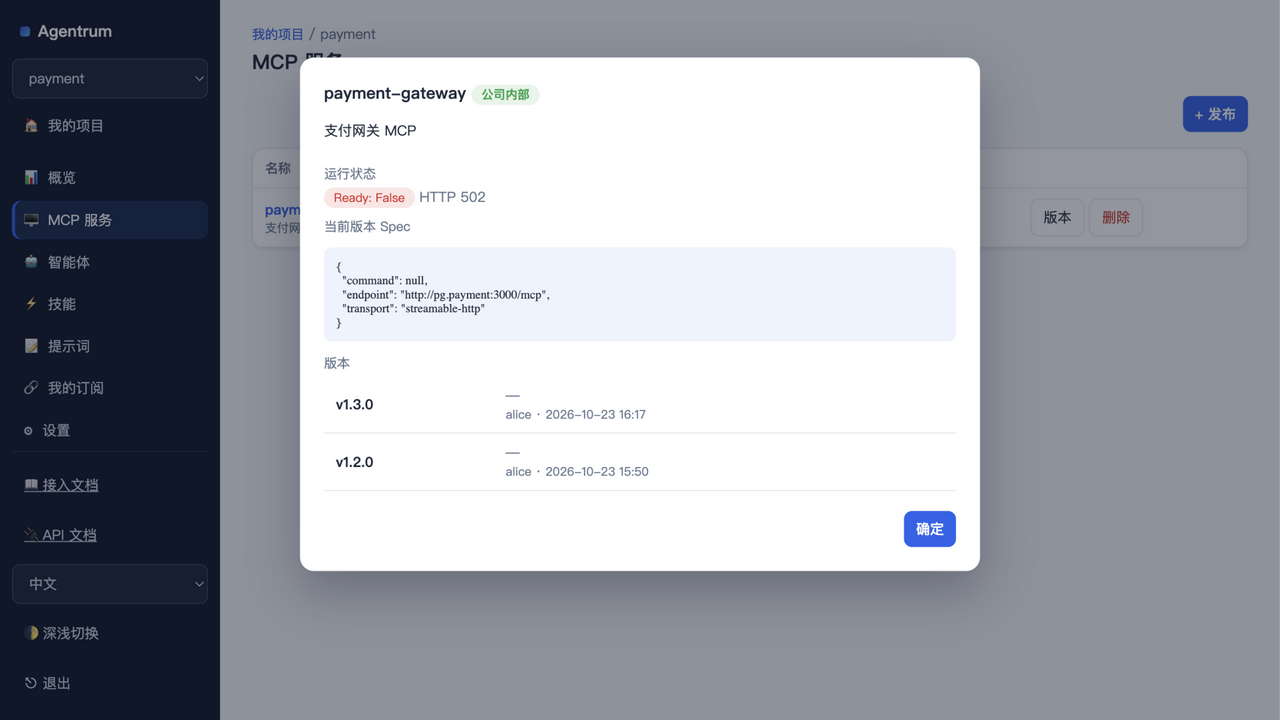
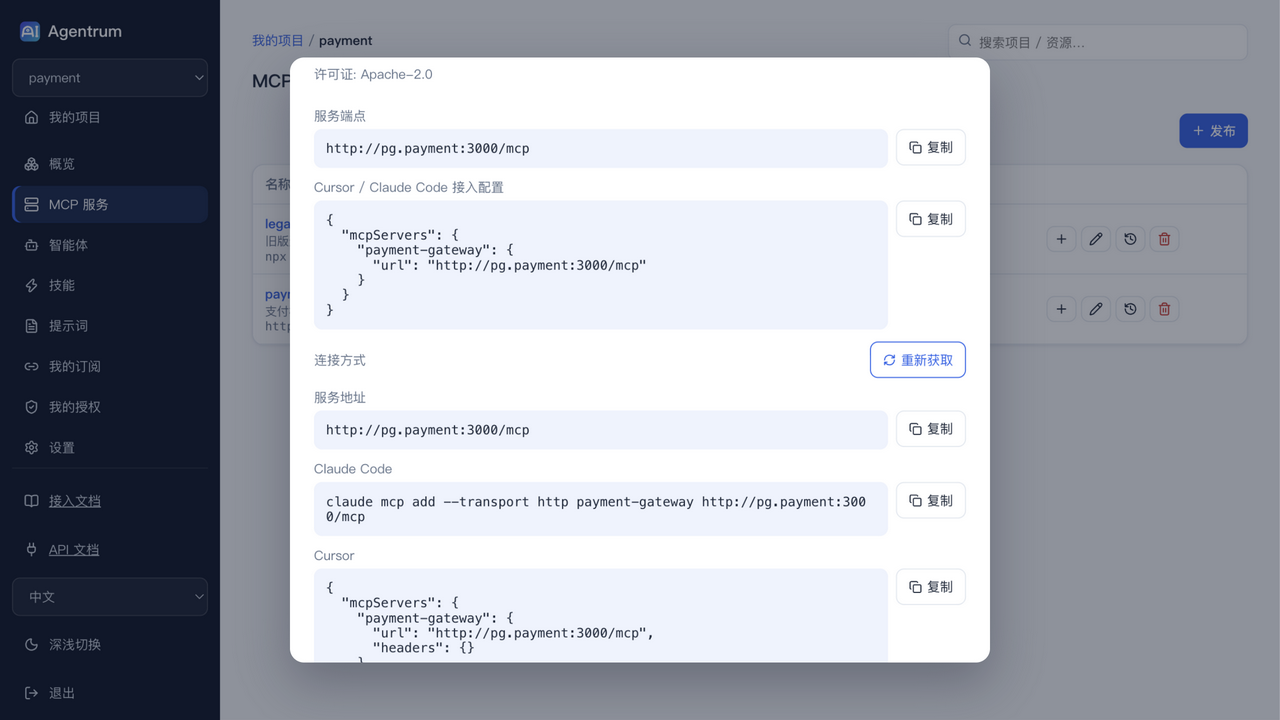
docs: refresh console screenshots with the new mark and features
Regenerate all seven screenshots against the current console: AI-monogram
brand mark, deprecation badges in the catalog, copy-ready IDE connection
snippets on resource detail, MCP publish form with args/auth headers.
Captions updated in both READMEs; handbook shot rebuilt with the new logo.

diff --git a/README.en.md b/README.en.md
@@ -26,9 +26,9 @@ AI assets end up scattered across chat threads, laptops and repos: nobody knows 
 | | |
 |---|---|
 | ![Overview](docs/img/01-overview.png) | ![Catalog](docs/img/02-catalog.png) |
-| *Project overview: resources, releases, subscribers, approvals at a glance* | *Catalog: organized by kind, visibility badges for internal / restricted / private* |
+| *Project overview: resources, releases, subscribers, approvals at a glance* | *Catalog: organized by kind, with visibility and deprecation badges* |
 | ![Detail](docs/img/03-detail.png) | ![Publish](docs/img/04-publish.png) |
-| *Resource detail: health, spec, version timeline* | *Publish: kind-specific forms, immutable tags* |
+| *Resource detail: health, version timeline, copy-ready IDE connection snippets* | *Publish: kind-specific forms (MCP args/auth headers), immutable tags* |
 | ![Subscribe](docs/img/05-subscribe.png) | ![Dark](docs/img/06-dark.png) |
 | *Cross-team subscribe: searchable picker — type `pay` to filter* | *Dark mode (light default, one-click toggle)* |
 

diff --git a/README.md b/README.md
@@ -26,9 +26,9 @@
 | | |
 |---|---|
 | ![概览](docs/img/01-overview.png) | ![目录](docs/img/02-catalog.png) |
-| *项目概览:资源、发布、订阅方、待审批一目了然* | *资源目录:按类型组织,可见性徽章区分公司内部 / 受限 / 项目私有* |
+| *项目概览:资源、发布、订阅方、待审批一目了然* | *资源目录:按类型组织,可见性与弃用徽章一目了然* |
 | ![详情](docs/img/03-detail.png) | ![发布](docs/img/04-publish.png) |
-| *资源详情:健康状态、Spec、版本时间线* | *发布:按类型出专属表单,tag 不可变* |
+| *资源详情:健康状态、版本时间线,一键复制 IDE 连接配置* | *发布:按类型出专属表单(MCP 支持 args/鉴权头),tag 不可变* |
 | ![订阅](docs/img/05-subscribe.png) | ![深色](docs/img/06-dark.png) |
 | *跨项目订阅:可搜索选择,输入 `pay` 即筛出目标* | *深色模式(浅色默认,一键切换)* |
 
